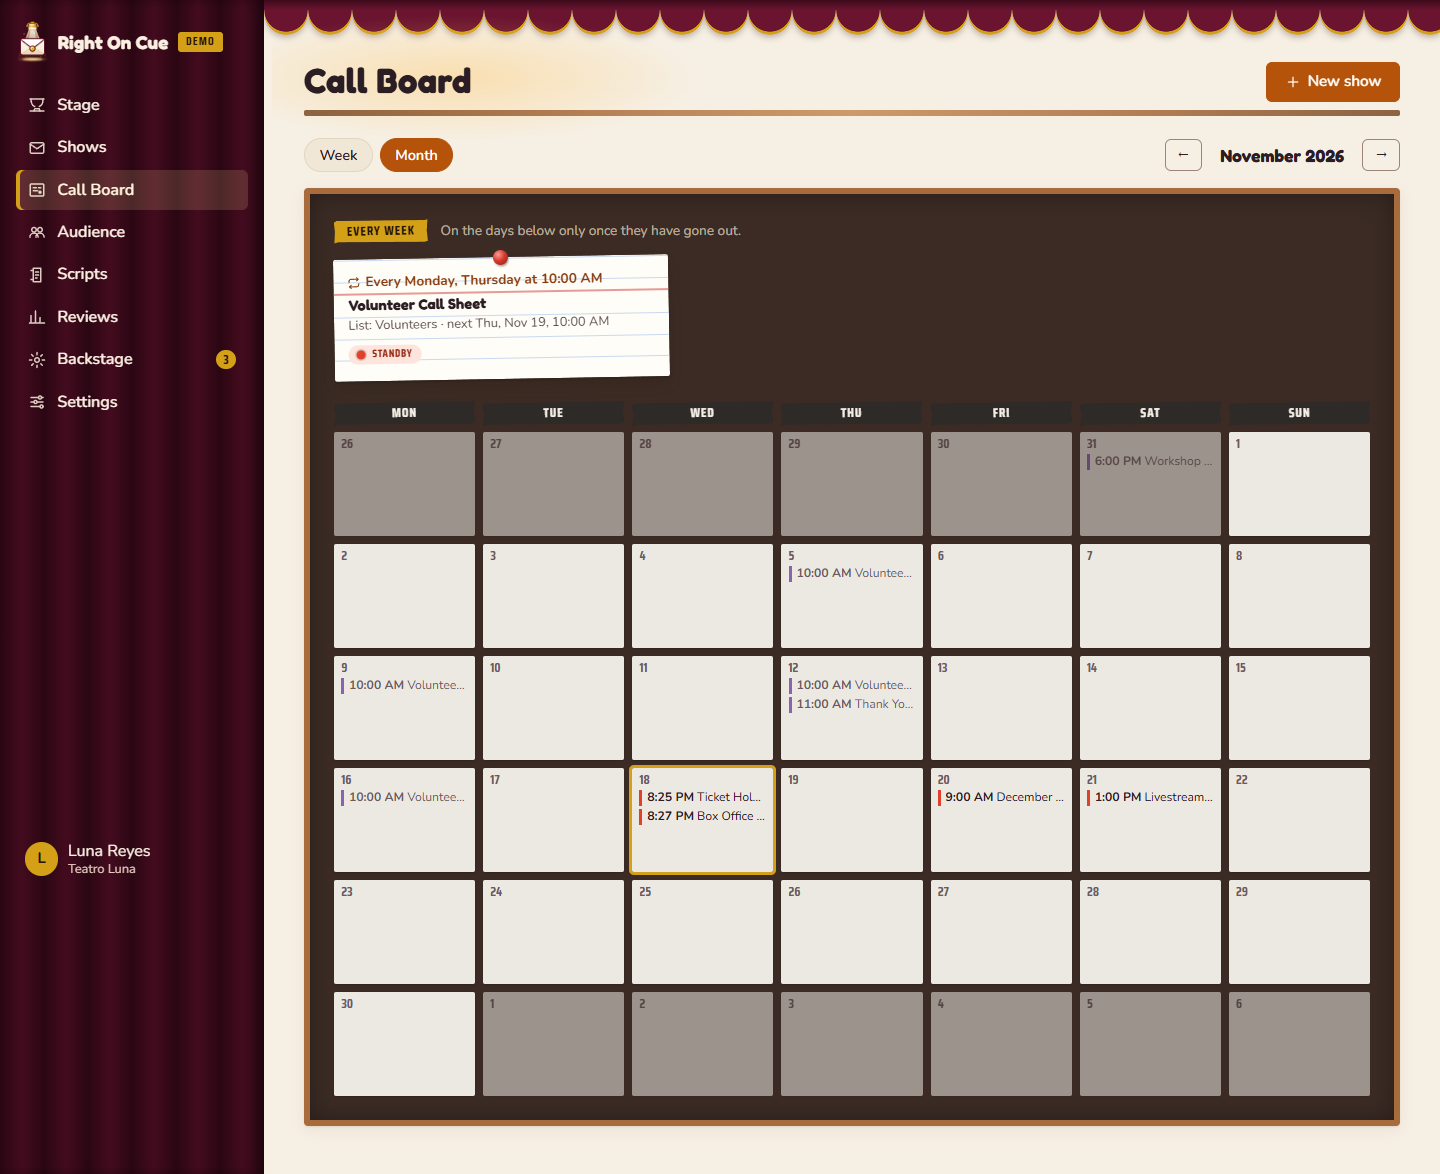
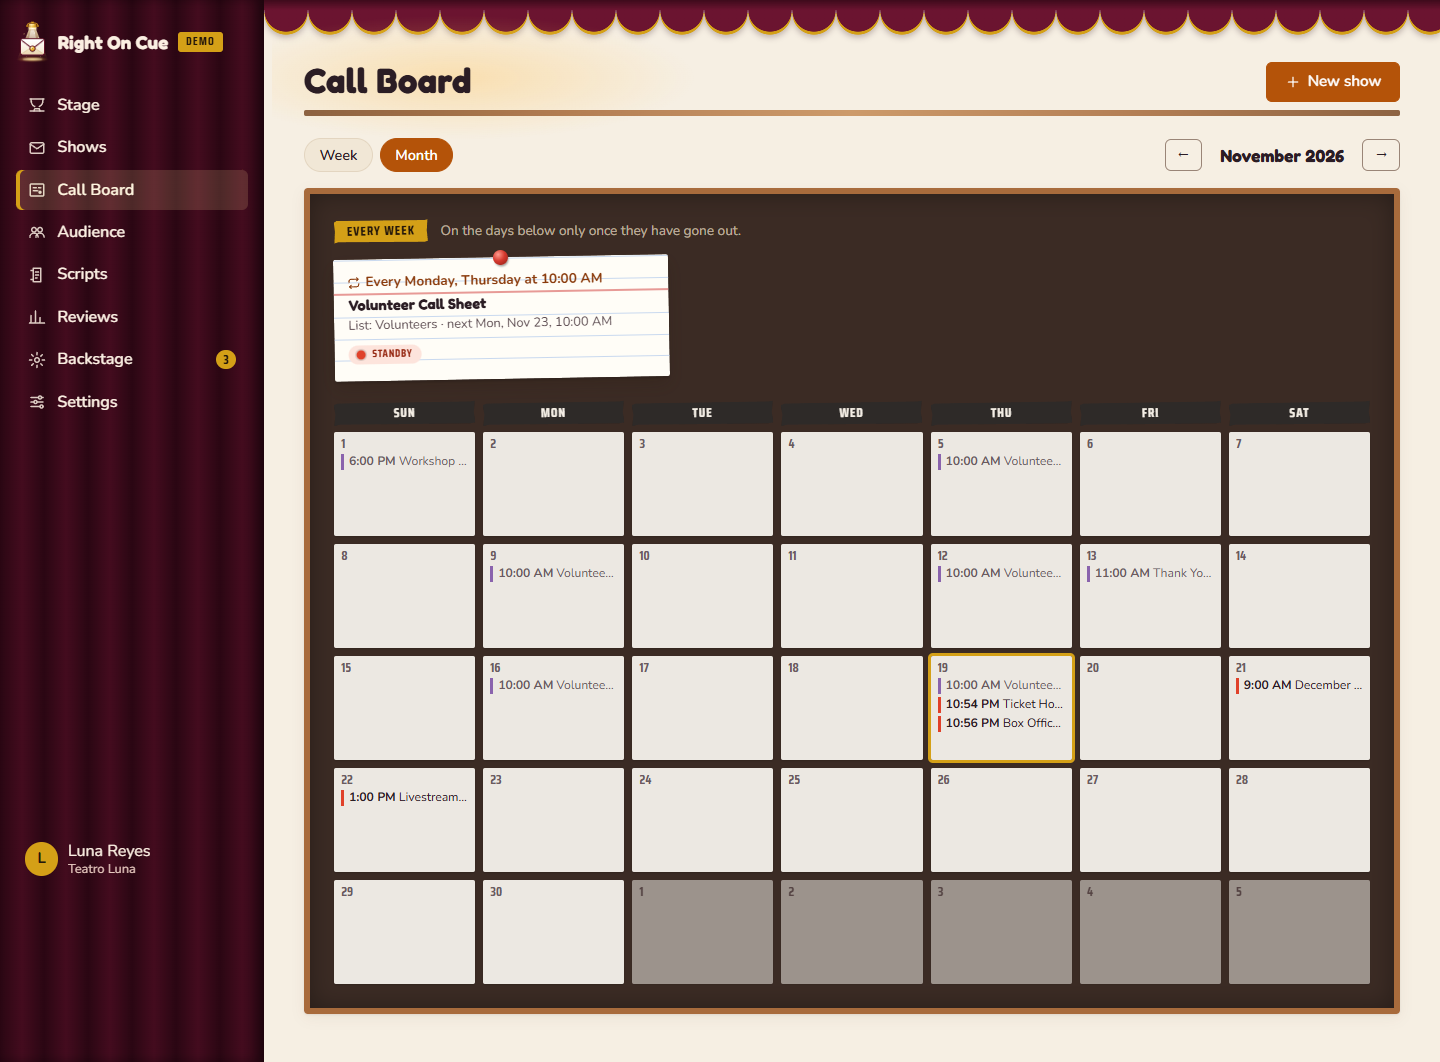
Start the week on Sunday
The Call Board's week and month views now run Sun Mon Tue Wed Thu Fri
Sat, like a wall calendar (smart.week_start returns the Sunday). The
show page's "Every week" day boxes and "Every Sunday, Monday ..." text
use the same order. The stored day numbers (0 = Monday) don't change,
so existing weekly shows keep their days. A test checks the board, the
month header, the boxes and the text. Call Board screenshots retaken.

diff --git a/oncue/templates/callboard_month.html b/oncue/templates/callboard_month.html
@@ -13,7 +13,7 @@
   <div class="corkboard">
   {% include "_board_lane.html" %}
   <div class="month-board">
-    <div class="month-head" aria-hidden="true">{% for name in ('Mon', 'Tue', 'Wed', 'Thu', 'Fri', 'Sat', 'Sun') %}<span class="tape">{{ name }}</span>{% endfor %}</div>
+    <div class="month-head" aria-hidden="true">{% for name in ('Sun', 'Mon', 'Tue', 'Wed', 'Thu', 'Fri', 'Sat') %}<span class="tape">{{ name }}</span>{% endfor %}</div>
     {% for week in weeks %}
       <div class="month-week">
         {% for day in week %}
@@ -24,7 +24,7 @@
               <a class="month-pin{% if card.status == 'curtain_down' %} is-done{% endif %}" href="{{ url_for('shows.page', show_id=card.show.id) }}" title="{{ show_cue(card.status).label }}: {{ card.show.name }}">
                 <span class="pin-time">{{ card.at|clock }}</span> {{ card.show.name }}</a>
             {% endfor %}
-            {% if cards|length > 3 %}<a class="month-more" href="{{ url_for('callboard.board', week=(day - this_monday).days // 7) }}">+{{ cards|length - 3 }} more</a>{% endif %}
+            {% if cards|length > 3 %}<a class="month-more" href="{{ url_for('callboard.board', week=(day - this_week).days // 7) }}">+{{ cards|length - 3 }} more</a>{% endif %}
           </div>
         {% endfor %}
       </div>

diff --git a/oncue/templates/show.html b/oncue/templates/show.html
@@ -76,7 +76,7 @@
                   <legend class="no-js-only">Every week</legend>
                   <fieldset class="choices day-choices">
                     <legend>On</legend>
-                    {% for day in weekdays %}<label class="check"><input type="checkbox" name="repeat_days" value="{{ loop.index0 }}"{% if loop.index0 in repeat_days %} checked{% endif %}> {{ day[:3] }}</label>{% endfor %}
+                    {% for number, day in weekdays %}<label class="check"><input type="checkbox" name="repeat_days" value="{{ number }}"{% if number in repeat_days %} checked{% endif %}> {{ day[:3] }}</label>{% endfor %}
                   </fieldset>
                   <label class="field"><span class="field-label">At <span class="hint">{{ g.workspace.time_zone.replace('_', ' ') }} time</span></span>
                     <input type="time" name="repeat_time" value="{{ show.repeat_time or '09:00' }}"></label>

diff --git a/oncue/views/callboard.py b/oncue/views/callboard.py
@@ -1,6 +1,6 @@
 """The Call Board: what's on, pinned to a cork board as cue cards, by day.
 
-Week view (the default): seven columns, Monday to Sunday, in the workspace's
+Week view (the default): seven columns, Sunday to Saturday, in the workspace's
 time zone. Month view: the month's weeks, a few titles a day. Each card is a
 show at a time: shows on Standby, EVERY coming time of a weekly show (not
 just the next one), what is on Go now, and what finished.
@@ -91,16 +91,16 @@ def board():
         next_month = date(year + month // 12, month % 12 + 1, 1)
         weeks = []
         day = grid_start
-        while day < next_month or day.weekday() != 0:
-            if day.weekday() == 0:
+        while day < next_month or day != smart.week_start(day):
+            if day == smart.week_start(day):  # a Sunday starts a new row
                 weeks.append([])
             weeks[-1].append(day)
             day += timedelta(days=1)
         by_day = cards_between(s, g.workspace, grid_start, weeks[-1][-1])
         return render_template("callboard_month.html", weeks=weeks, by_day=by_day, first=first, today=today,
-                               offset=offset, this_monday=smart.week_start(today), weekly=weekly_shows(s, g.workspace))
+                               offset=offset, this_week=smart.week_start(today), weekly=weekly_shows(s, g.workspace))
     offset = request.args.get("week", 0, type=int)
-    monday = smart.week_start(today) + timedelta(weeks=offset)
-    days = [monday + timedelta(days=index) for index in range(7)]
+    sunday = smart.week_start(today) + timedelta(weeks=offset)
+    days = [sunday + timedelta(days=index) for index in range(7)]
     return render_template("callboard.html", days=days, by_day=cards_between(s, g.workspace, days[0], days[-1]),
                            today=today, offset=offset, weekly=weekly_shows(s, g.workspace))

diff --git a/tests/test_smart.py b/tests/test_smart.py
@@ -1,4 +1,5 @@
 """Smart sending: their own time zone, quiet hours, the A/B test, weekly shows, the Call Board."""
+import re
 from datetime import date, datetime, time, timedelta
 
 import pytest
@@ -248,3 +249,26 @@ def test_the_call_board(app, owner):
     month = text(client.get("/call-board/?view=month"))
     assert month.count("Weekly Notes") == 1 and "month-board" in month
     assert client.get("/call-board/?week=-1").status_code == 200
+
+
+def test_weeks_run_sunday_to_saturday(app, owner):
+    """Like a wall calendar: Sun Mon Tue Wed Thu Fri Sat, on the board and on the show page."""
+    for day in (date(2026, 11, 15), date(2026, 11, 18), date(2026, 11, 21)):  # Sunday, Wednesday, Saturday
+        assert smart.week_start(day) == date(2026, 11, 15)
+    assert smart.week_start(date(2026, 11, 22)) == date(2026, 11, 22)  # the next Sunday starts a new week
+    client, workspace_id = owner
+    page = text(client.get("/call-board/"))
+    heads = re.findall(r'class="board-day-head"><span class="tape[^"]*">(\w{3}) ', page)
+    assert heads == ["Sun", "Mon", "Tue", "Wed", "Thu", "Fri", "Sat"]
+    month = text(client.get("/call-board/?view=month"))
+    assert re.findall(r'<span class="tape">(\w{3})</span>', month.split('class="month-head"')[1])[:7] == \
+        ["Sun", "Mon", "Tue", "Wed", "Thu", "Fri", "Sat"]
+    weekly = make_show(app, workspace_id)
+    with app.app_context():
+        s = db.session()
+        show = s.get(Show, weekly)
+        smart.schedule_weekly(s, show, s.get(Workspace, workspace_id), [0, 6], time(9, 0), datetime.now())
+        s.commit()
+        assert smart.describe_repeat(show) == "Every Sunday, Monday at 9:00 AM"
+    boxes = re.findall(r'name="repeat_days" value="(\d)"', text(client.get(f"/shows/{weekly}")))
+    assert boxes == ["6", "0", "1", "2", "3", "4", "5"]  # Sun first; the stored numbers don't change

diff --git a/oncue/smart.py b/oncue/smart.py
@@ -36,6 +36,9 @@ from .models import Contact, Message, Performance, Show, Workspace
 EARLIEST_ZONE = "Etc/GMT-14"  # UTC+14 (the sign is backwards in these names): where each day starts first
 LATEST_ZONE = "Etc/GMT+12"  # UTC-12: where each day ends last
 WEEKDAYS = ["Monday", "Tuesday", "Wednesday", "Thursday", "Friday", "Saturday", "Sunday"]
+# Python's day numbers (0 = Monday, as stored in repeat_days) in the order people see them:
+# Sunday first, Saturday last.
+WEEK_ORDER = [6, 0, 1, 2, 3, 4, 5]
 AB_PERCENTS = (10, 20, 30, 50)
 AB_WAITS = (1, 2, 4, 8, 24)
 
@@ -140,7 +143,7 @@ def describe_repeat(show):
     elif days == [0, 1, 2, 3, 4]:
         names = "weekday"
     else:
-        names = ", ".join(WEEKDAYS[day] for day in days)
+        names = ", ".join(WEEKDAYS[day] for day in sorted(days, key=WEEK_ORDER.index))
     clock = parse_clock(show.repeat_time)
     return f"Every {names} at {clock.hour % 12 or 12}:{clock.minute:02d} {'AM' if clock.hour < 12 else 'PM'}"
 
@@ -251,7 +254,8 @@ def save_quiet(s, workspace, form):
 
 
 def week_start(day):
-    return day - timedelta(days=day.weekday())
+    """The Sunday that starts day's week (weeks run Sunday to Saturday, as on a wall calendar)."""
+    return day - timedelta(days=(day.weekday() + 1) % 7)
 
 
 def init_app(app):

diff --git a/oncue/views/shows.py b/oncue/views/shows.py
@@ -360,7 +360,7 @@ def progress(s, show):
         latest = found[0] if found else None
         ab = {"perf": latest, "numbers": smart.ab_numbers(s, latest.id) if latest else None}
     return {"progress_template": "_show_progress.html", "performances": rows, "performance_count": len(found),
-            "estimate": estimate, "tests": tests, "ab": ab, "weekdays": smart.WEEKDAYS,
+            "estimate": estimate, "tests": tests, "ab": ab, "weekdays": [(day, smart.WEEKDAYS[day]) for day in smart.WEEK_ORDER],
             "repeat_label": smart.describe_repeat(show) if show.repeats else None,
             "repeat_days": smart.days_of(show),
             "show_sections": (["_show_ab.html"] if show.is_ab else []) + (["_show_results.html"] if found else [])
